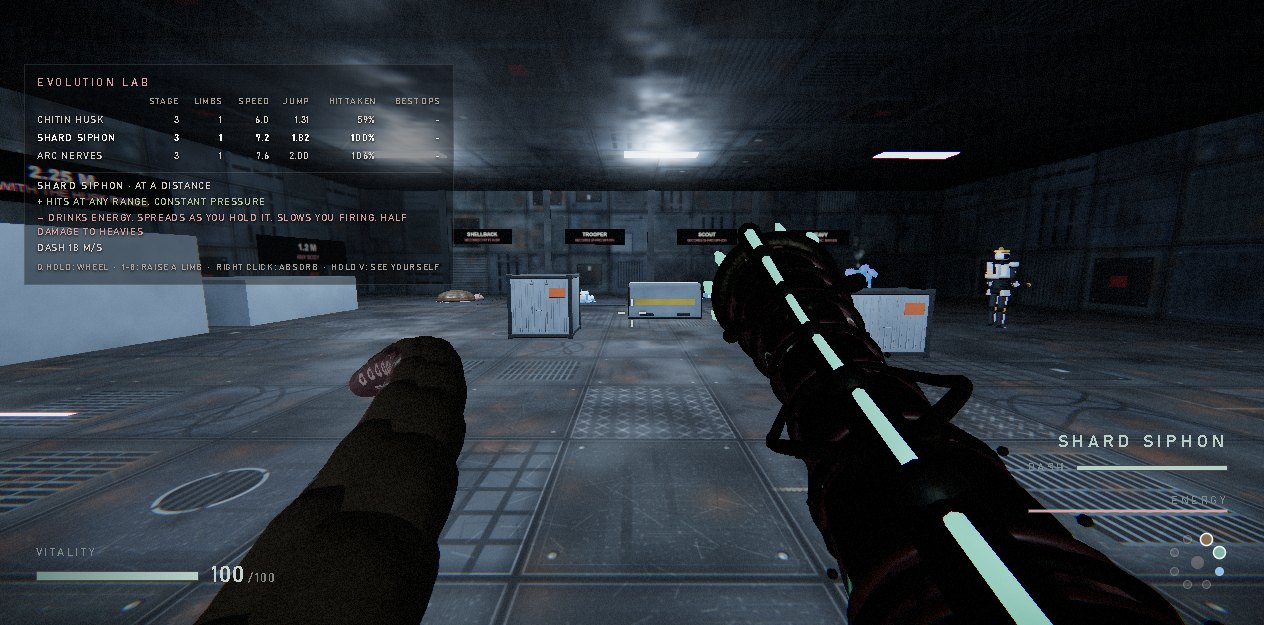
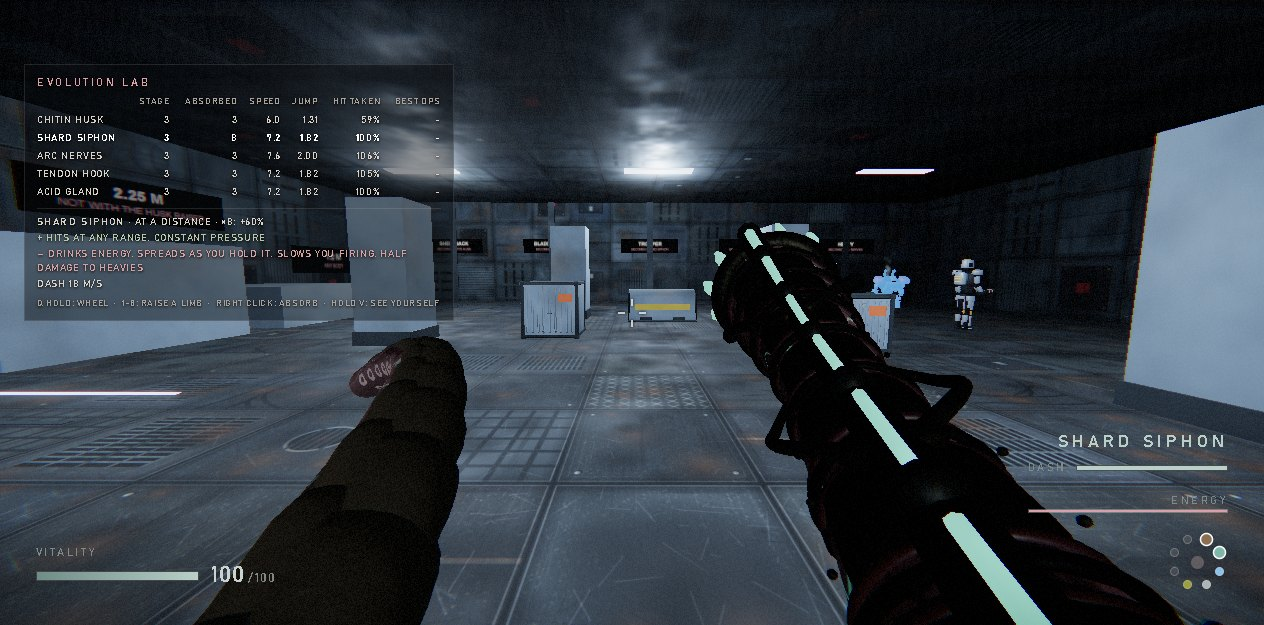
Acid lands where you look, on a slow arc you can see coming. Androids merged by joint and material. Status document rewritten for stacking, five mutations and how machines fight
Claude-Session: https://claude.ai/code/session_0125okzg81Kjbt5R37i6epug

diff --git a/src/game/enemies/android.js b/src/game/enemies/android.js
@@ -1,5 +1,6 @@
 import * as THREE from 'three';
 import { RoundedBoxGeometry } from 'three/addons/geometries/RoundedBoxGeometry.js';
+import { mergeGeometries } from 'three/addons/utils/BufferGeometryUtils.js';
 import { Enemy } from './enemy.js';
 import { clamp, damp, yawTo, angleDiff, lerp, smooth, rand } from '../../core/util.js';
 import { LAB } from '../../v2/flags.js';
@@ -41,6 +42,7 @@ if (LAB) {
   Object.assign(ANDROID_VARIANTS.scout, { hp: 22, speed: 6.4, dmg: 5, shotSpeed: 34, aimT: 0.36, gap: 0.08, keep: [4, 9] });
   Object.assign(ANDROID_VARIANTS.heavy, { hp: 85, speed: 2.8, burst: 3, dmg: 16, shotSpeed: 15, aimT: 0.7, gap: 0.3, keep: [6, 12] });
 }
+const MERGED = new Map();
 const REBOOT_AFTER = 6.5, RISE = 0.7;     // seconds you have to deal with a machine that is down; how long it takes to stand
 
 export class SecurityAndroid extends Enemy {
@@ -95,10 +97,14 @@ export class SecurityAndroid extends Enemy {
       const side = s < 0 ? 'L' : 'R', hp = pivot(this.hips, s * r.hip[0], r.hip[1], 0), kn = pivot(hp, r.kn[0], r.kn[1], r.kn[2]), ft = pivot(kn, r.ft[0], r.ft[1], r.ft[2]); parts['hp' + side] = hp; parts['kn' + side] = kn; parts['ft' + side] = ft;
       return { s, hp, kn, ft };
     });
-    for (const name of v2prefix(r.key + '__')) {
-      const [, part, role] = name.split('__'), m = new THREE.Mesh(v2node(name).geometry, mats[role]);
-      m.castShadow = false; parts[part].add(m);
+    let built = MERGED.get(r.key);
+    if (!built) {
+      const groups = {};
+      for (const name of v2prefix(r.key + '__')) { const [, part, role] = name.split('__'), k = part + '|' + role; (groups[k] || (groups[k] = [])).push(v2node(name).geometry); }
+      built = Object.entries(groups).map(([k, list]) => { const [part, role] = k.split('|'); return { part, role, geo: list.length > 1 ? mergeGeometries(list, false) : list[0] }; });
+      MERGED.set(r.key, built);
     }
+    for (const { part, role, geo } of built) { const m = new THREE.Mesh(geo, mats[role]); m.castShadow = false; parts[part].add(m); }
   }
 
   build() {

diff --git a/src/v2/abilities.js b/src/v2/abilities.js
@@ -118,7 +118,9 @@ export class Abilities {
   acid(a, ti, kc) {
     const g = this.g, cam = g.camera; cam.updateMatrixWorld(); g.viewmodel.syncToCamera(cam); g.viewmodel.muzzleWorld(_a); cam.getWorldDirection(_d);
     const m = new THREE.Mesh(this.globGeo, this.globMat); m.position.copy(_a); this.group.add(m);
-    this.globs.push({ m, vel: _d.clone().multiplyScalar(a.speed).add(_b.set(0, a.lift, 0)), t: 0, dmg: a.dmg[ti] * kc, dot: a.dot[ti] * kc, radius: a.radius[ti], life: a.life });
+    const at = g.pickAim(cam.position, _d, a.range), T = Math.max(0.28, Math.min(1.1, at.distanceTo(_a) / a.speed));
+    const vel = new THREE.Vector3((at.x - _a.x) / T, (at.y - _a.y) / T + 8 * T, (at.z - _a.z) / T);
+    this.globs.push({ m, vel, t: 0, dmg: a.dmg[ti] * kc, dot: a.dot[ti] * kc, radius: a.radius[ti], life: a.life });
     g.viewmodel.fireKick(); g.viewmodel.recoilVel += 4; g.addShake(0.05); g.viewmodel.bulge = Math.max(g.viewmodel.bulge, 0.8);
     g.audio.play('gel', { vol: 0.9 }); g.audio.play('swallow', { vol: 0.4 });
     for (let i = 0; i < 6; i++) g.effects.glowP.emit(_a.x, _a.y, _a.z, _d.x * 3 + rand(-1, 1), _d.y * 3 + rand(-0.4, 1), _d.z * 3 + rand(-1, 1), 0.3, 0.02, 0.4, 0.46, 0.08, 8, 0.6);

diff --git a/src/v2/mutations.js b/src/v2/mutations.js
@@ -71,7 +71,7 @@ export const MUTATIONS = {
     note: 'SPITS A GLOB ON A SLOW ARC. THE POOL EATS MACHINES AND WEAKENS THEM. IT CAN HURT YOU TOO.',
     role: 'CONTROLLING GROUND', plus: 'POOL DAMAGES, SLOWS, AND MAKES MACHINES TAKE 40% MORE FROM EVERYTHING. ABSORBING HEALS YOU 30% MORE', minus: 'SLOW ARC, EASY TO DODGE. LITTLE DAMAGE AT ONCE. THE POOL BURNS YOU TOO',
     style: { rim: 0xb0c050, suck: 0x000000, suckI: 0, grip: 0, spread: 0, swell: 0.3, weapon: 0.8, noMouth: false, roll: 2.2 },
-    attack: { type: 'acid', dmg: [8, 11, 14], dot: [12, 16, 21], radius: [2.4, 2.8, 3.2], speed: 17, lift: 4.5, life: 4, rate: [1.0, 0.9, 0.8], cost: [16, 16, 16], corrode: 1.4 },
+    attack: { type: 'acid', dmg: [8, 11, 14], dot: [12, 16, 21], radius: [2.4, 2.8, 3.2], speed: 14, range: 24, life: 4, rate: [1.0, 0.9, 0.8], cost: [16, 16, 16], corrode: 1.4 },
     mods: () => ({ absorbHeal: 1.3 }),
     move: () => ({}),
     moveNote: () => 'WET, CORROSIVE',

diff --git a/docs/V2_PROTOTYPE_STATUS.md b/docs/V2_PROTOTYPE_STATUS.md
@@ -4,76 +4,66 @@
 
 **Controls:** WASD move, Space jump, Shift dash, left click attack, right click or E absorb. Q tap: next mutation. Q hold: the wheel. 1 to 8: raise that limb. 0: bare arms. **Hold V: see your whole body.** In the lab, E on a floor pad.
 
-**Checkpoint before Evolution 2.0:** tag `v2-checkpoint-pre-evolution2`, and `Desktop/Intruder-Backups/intruder-v2-127c929-pre-evolution2.bundle`.
+**Checkpoints:** tags `v2-checkpoint-pre-evolution2` and `v2-checkpoint-pre-androids`, with bundles in `Desktop/Intruder-Backups`.
 
 ## Implemented
 
 | Area | What exists | Where |
 |---|---|---|
-| Separation | The prototype runs by default; `?legacy` runs the old game | `src/v2/flags.js` |
-| Eight limbs | Eight real limbs, one per wheel slot at a fixed place round the body. A mutation stays on its limb. Choosing it raises that limb; the rest walk | `src/v2/limbs.js`, `src/v2/evolution.js` |
-| Wheel | A plan of your body from above: each sector sits where its limb is. Shows role, strengths and limits. Hold Q, world slows, mouse steers | `src/v2/wheel.js` |
-| Ninth mutation | When all eight are taken and you absorb something you do not carry, the wheel asks: replace a limb or keep your body. Nothing is ever overwritten. Something you already carry does not ask | `src/v2/wheel.js`, `src/v2/evolution.js` |
-| Silhouette | Each mutation also grows on the trunk, climbing from the limb roots as it deepens: a humped shell; tanks, spine housing and exhaust stacks; a coil and insulated prongs. The trunk bulks up, and limbs carrying husk thicken | `art/build_v2_arm.py`, `src/v2/limbs.js` |
-| Transformation | The arm swells in lumps ahead of a raw dark edge, convulses, and parts force out and settle. A walking limb lifts into the corner of your view while it changes. It never stops you moving | `src/v2/armskin.js`, `src/v2/limbs.js` |
-| Absorption: machine | Arms coil round it and haul it up. Each real part is wrenched off in turn, outermost first, and dragged into the coils; each sends a metal-grey lump up the arm. Sparks and clatter. Its blue power drains. Nothing is left. Gives more energy, less healing | `src/v2/absorbfx.js` |
-| Absorption: living | Too heavy to lift: the arms squeeze it on the floor. The shell cracks, darkens and sags, dark drips fall, and slow wide swallows run up the arms. The empty shell stays behind. Gives more healing, less energy | `src/v2/absorbfx.js`, `src/v2/shellback.js` |
-| Machines go down first | A machine that is awake always goes down before it can die, however hard the blow, so there is something to absorb. Finishing it off is a choice | `src/game/enemies/enemy.js` |
-| See yourself | Hold V: the camera steps out and the mouse orbits it, with the world slowed | `src/v2/inspect.js` |
-| Evolution Lab | One compact room: four specimens that come back, inert machines to measure against, two ledges and a dash lane, pads to wake a squad / grow every limb / start a new body, and a live comparison panel | `src/v2/gym.js` |
-| Test chapter | Short generated deck, androids only, harmless shellbacks to absorb | `src/v2/lab.js`, `src/v2/shellback.js` |
-| Death | New body, new layout, chapter restarts. Discoveries persist; no permanent stats. In the lab you return with your build | `src/v2/lab.js`, `src/v2/gym.js` |
+| Eight limbs | One real limb per wheel slot, at a fixed place round the body. A mutation holds one limb and stays on it. Choosing it raises that limb; the rest walk | `src/v2/limbs.js`, `src/v2/evolution.js` |
+| Stacking | No multiples of a mutation. Each enemy gives one mutation. Absorbs 1 to 3 are stages that spread it over the limb and body; every absorb after that adds 12% power with no cap, and the limb and body keep getting bigger | `src/v2/evolution.js` |
+| Wheel | A plan of your body from above. Shows stage, absorb count, role, strengths and limits | `src/v2/wheel.js` |
+| Eight-limb choice | With all eight taken, absorbing something you do not carry asks: replace a limb or keep your body. Absorbing something you carry just strengthens it | `src/v2/wheel.js`, `src/v2/evolution.js` |
+| Silhouette | Each mutation grows on the trunk, from the limb roots up: shell, machinery and stacks, coil and prongs, side reels, bloated sacs | `art/build_v2_arm.py`, `src/v2/limbs.js` |
+| Transformation | Lumpy swelling ahead of a raw edge, convulsion, parts forcing out. A walking limb lifts into view while it changes. You never stop moving | `src/v2/armskin.js`, `src/v2/limbs.js` |
+| Absorption | Machines are hauled up and stripped part by part. Living things are squeezed where they lie, crack, sag and leave a shell. Different healing and energy | `src/v2/absorbfx.js` |
+| Androids | Three Blender machines: plates over frame over cables and a lit core, with 46 to 49 pieces each | `art/build_v2_androids.py`, `src/game/enemies/android.js` |
+| Behaviour | See below | `src/game/enemies/android.js` |
+| Evolution Lab | Five specimens that come back, inert machines to measure against, ledges and a dash lane, cover pillars, pads to wake a squad / try the eight-limb choice / start a new body, and a live comparison panel | `src/v2/gym.js` |
+| See yourself | Hold V: the camera steps out, the mouse orbits it, the world slows | `src/v2/inspect.js` |
+| Test chapter, death | Short generated deck; death restarts it. Discoveries persist; no permanent stats. In the lab you return with your build | `src/v2/lab.js` |
 
-## The three mutations
+## The five mutations
 
-Measured at stage 3 unless noted. Baseline with bare arms or Shard raised: 7.2 m/s, 0.17 s to reach speed, no slide, dash 18 m/s for 3.2 m, jump 1.73 m (test figures; the panel shows the calculated peak).
+| | **Chitin Husk** | **Shard Siphon** | **Arc Nerves** | **Tendon Hook** | **Acid Gland** |
+|---|---|---|---|---|---|
+| Nature | Organic | Biomechanical | Biomechanical | Biomechanical | Organic |
+| Absorb to get it | Shellback | Trooper | Heavy | Scout | Bladderback |
+| Purpose | Close and brutal | At a distance | Against many | Control and movement | Controlling ground |
+| Strength | Armour wherever carried. Blows stagger. Dash becomes a charge | Hits at any range | Finds its own target, conducts through machines, stops them firing. Raised, you are quick | Yanks light machines to you. Pulls you to heavies and any surface, up and over ledges. Raised, you are agile | Pool damages, slows, and makes machines take 40% more from everything. Absorbing heals 30% more |
+| Limit | No reach. Raised: slow, slides, jumps low | Uses energy. Spreads as held. Slows you firing. Half damage to a heavy's front | Weak on one target. Huge cost. You take more damage. Burns out downed machines | Barely hurts. One target. Brings them into your face. You cannot steer while pulled. You take 5% more damage | Slow arc. Little damage at once. The pool burns you too |
 
-| | **Chitin Husk** (organic) | **Shard Siphon** (biomechanical gun) | **Arc Nerves** (biomechanical) |
-|---|---|---|---|
-| Source | Shellback | Trooper, scout | Heavy |
-| Purpose | Close and brutal | At a distance | Against many |
-| Strength | Armour wherever carried (damage taken 59%). Blows stagger. Dash becomes a charge that damages, knocks back and stuns | Hits at any range | Finds its own target. Conducts through nearby machines, +25% per machine, and stops them firing. Raised, you are quicker |
-| Limit | No reach. Raised: slow, slides, jumps low | Drinks energy. Spreads as you hold it. Slows you 16% while firing. Half damage to heavies. Slower energy recovery | Weak on one target. Huge cost. You take 6 to 10% more damage. Burns out downed machines you could have absorbed |
-| Top speed, raised | 6.05 | 7.2 | 7.63 |
-| Time to reach speed | 0.37 s | 0.17 s | 0.13 s |
-| Slide after stopping | 0.39 m | none | none |
-| Dash | 13 m/s for 0.3 s, 3.8 m, a charge | 18 m/s, 3.2 m | 18 m/s, 3.2 m |
-| Jump (test figure) | 1.24 m | 1.73 m | 1.91 m |
-| The 2.25 m ledge | **Cannot reach** | Can | Can |
-| Inert trooper | 0.2 s, only within 4 m | 0.3-0.37 s at any range | 0.73 s |
-| Inert heavy | 0.9 s, only within 4 m | 1.5 s | 3.17 s, and all its energy |
-| Four machines at once | One at a time | One at a time | All four: 32 damage each, all stopped firing |
+Measured, stage 3: Husk 6.05 m/s and cannot reach the 2.25 m ledge; Shard 7.2 m/s; Arc 7.63 m/s. Inert trooper: Husk 0.2 s within 4 m, Shard 0.3-0.37 s at any range, Arc 0.73 s. Inert heavy: Husk 0.9 s, Shard 1.5 s, Arc 3.17 s and all its energy. Arc on four machines: 32 damage each, all stopped. Hook: dragged a trooper 10.3 m, hauled the player 8.9 m to a heavy that did not move, carried the player onto the 2.25 m ledge. Acid: lands within 0.5 m at 4 to 16 m, flight 0.3 to 1.07 s; 19 on impact and 16 per second at stage 3; burns you 8 per second.
 
-Further limbs: once a mutation reaches stage 3, absorbing its source grows it on another free limb, and each extra limb makes that mutation 10% stronger. Passive armour and costs do not stack.
+Stacking, measured: Shard stage 3 does 15 per shot; at 8 absorbs, 24. Still one limb.
 
-## Machines
+## How machines fight
 
-| | Health | Speed | Shot speed | Damage | Aim time | Rest after burst |
-|---|---|---|---|---|---|---|
-| Trooper | 40 | 4.2 | 26 | 9 | 0.5 | 0.9-1.7 |
-| Scout | 22 | 6.4 | 34 | 5 | 0.36 | same |
-| Heavy | 85 | 2.8 | 15 | 16 | 0.7 | same |
+| | Health | Speed | Shot speed | Damage | Behaviour, measured |
+|---|---|---|---|---|---|
+| Trooper | 40 | 4.2 | 26 | 9 | Fires, then ducks into cover nearby (32% of its time, hidden from you 33%) and comes out elsewhere. If you hide it keeps firing at where you were (8 shots while hidden 81% of the time) |
+| Scout | 22 | 6.4 | 34 | 5 | Never stops: 86% of its time moving, circled 201 degrees in 8 seconds, shoots on the run, dodges when your aim is on it (4 dodges in 8 seconds) |
+| Heavy | 85 | 2.8 | 15 | 16 | Marches straight at you, firing as it comes (20.9 m to 2.2 m in 12 seconds). Its plating halves shard hits from the front only. Ignores small hits. Close up, it stomps: 0.6 s warning, up to 22 damage and knockback |
 
-A machine left down for 6.5 seconds gets up at 45 percent, with a warning. Lab specimens do not.
+All: never more than two lining up shots at once (measured), go down before they can die, and get back up after 6.5 seconds if left alone. Lab specimens do not.
 
 ## Verified, realistic mode
 
-- **Limb assignment:** changing arms leaves every mutation on the same limb.
-- **Clipping and ground contact, measured:** 2808 samples on walking limbs, twice: none inside anything solid, 1.2 cm into the floor at worst, 8 cm above it at worst.
-- **The lab through real input:** the pads with the E key; specimens absorbed through the real absorb and respawned; the eight-limb question reached by the fill pad and a real absorb; keeping, replacing limb 3, and no question for something already carried; a new body; a squad awake and lethal with real damage; dying and returning with the build kept; leaving for the test chapter, which cleans up.
-- **Ninth-mutation routes:** Q, E, right click, number keys and mouse with click. Only the chosen limb changes. Healing and energy apply either way. The trigger is off while it asks. Several queue.
-- **Absorb:** 1.07 seconds, you keep moving, nothing slows. All three android types from every side at 3.4 m.
-- **Test chapter, a bot with real damage, 17 layouts over three runs:** 10 clears in 53 to 82 seconds, 6 deaths in 27 to 71 seconds, 1 stall where it stopped making progress at 57 health. It reached eight limbs in normal play. Runs varied a lot: 3 of 6, 5 of the 5 recorded, and 2 of 6 cleared. The bot aims perfectly and cannot dodge, so this shows direction, not difficulty for a person.
-- **Inherited game via `?legacy`:** three playthroughs won with nothing stuck, the journey script and the road test complete. The script audit's `board` step reports false, as it did before this work.
-- **Cost, worst case, every limb mutated:** 128 draw calls, 504k triangles, 0.11 ms to update the body. Measured on a software renderer, so the frame rate on real hardware is unknown. `v2_arm.glb` grew from 2.5 to 4.1 MB.
+- **Limb assignment and clipping:** changing arms leaves every mutation in place. 2808 samples on walking limbs: none inside anything solid.
+- **The lab through real input:** pads, specimens absorbed through the real absorb and respawned, the eight-limb question via stand-ins, keeping, replacing, stacking at a full body with no question, new body, live squad, dying and returning, leaving for the chapter.
+- **Choice routes:** Q, E, right click, number keys, mouse with click. Only the chosen limb changes. Benefits apply either way.
+- **Downed machines:** troopers and heavies absorbable from 3.4 m on every side, 12 of 12. Scouts fall away from you, so 6 of 12 needed one more step.
+- **Test chapter, a bot with real damage, 12 layouts:** 4 clears in 60 to 95 seconds, 8 deaths in 26 to 56 seconds. Harder than the previous round (10 clears in 17). The bot aims perfectly, but cannot dodge or use cover, and uses only Shard, Husk and Arc. It shows direction, not difficulty for a person.
+- **Inherited game via `?legacy`:** three playthroughs won, journey script and road test complete. The audit's `board` step reports false, as it did before.
+- **Cost, worst case:** all five mutations and six machines awake: 959 draw calls, 742k triangles, 0.24 ms for the body, 0.04 ms per machine per step. Measured on a software renderer, so the frame rate on real hardware is unknown.
 
 ## Experimental, not proven
 
-- **How it feels.** No person has played this. Every number is a measured first guess.
-- **Further limbs of the same mutation** were added so eight limbs can be reached with only three mutations. Whether this is the right rule is a design question.
-- **The limb lifting into view** can pass partly behind a raised arm on the same side.
-- **Seen from outside,** the raised arms hold one pose; they do not strike or fire. Their mutation plates face away from you while absorbing, because the underside faces you.
-- **Long-range grabs** stretch the arm, and the suckers elongate near the far end. A kneeling heavy gives the least tidy coils.
+- **How it feels.** No person has played this round. Every number is a measured first guess.
+- **The eight-limb choice cannot happen in normal play.** With no multiples, five mutations can never fill eight limbs. It needs nine. In the lab, stand-ins hold the empty limbs so it can be tried.
+- **Stacking has no cap.** In the lab specimens respawn, so numbers can get very large.
+- **Draw calls** are still high with many machines (about 49 per android, down from about 70). They could be merged further until torn apart.
+- **Acid** has no trajectory marker. **The lifting limb** can pass behind a raised arm. **From outside**, raised arms hold one pose.
+- **Long-range grabs** stretch the arm; a kneeling heavy gives the least tidy coils.
 - **Phone and Retro mode:** not tested. On a phone there is no way to hold V or press E on a pad yet.
-- **Androids, rooms:** still V1 art. The android redesign and new mutations wait for approval.
-- **Rigging:** nothing uses a skeleton.
+- **Rooms** are still V1 art. **Rigging:** nothing uses a skeleton.
